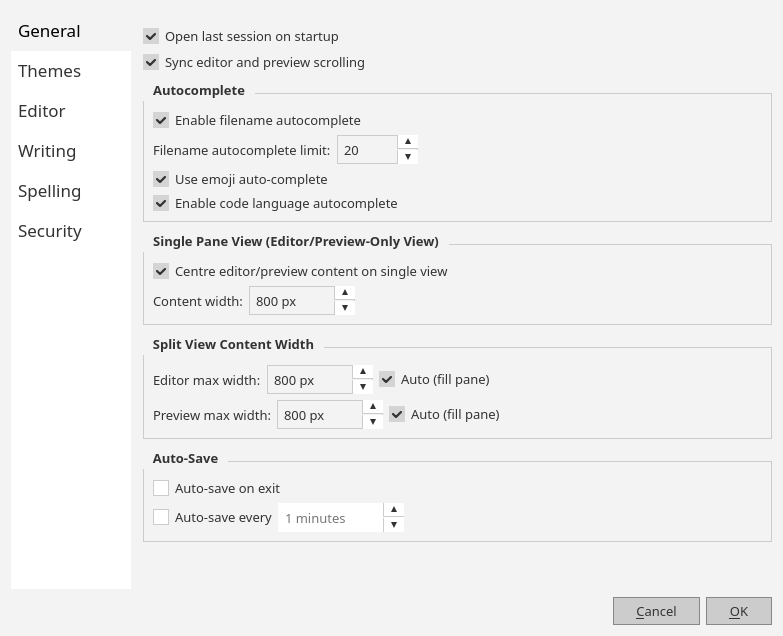
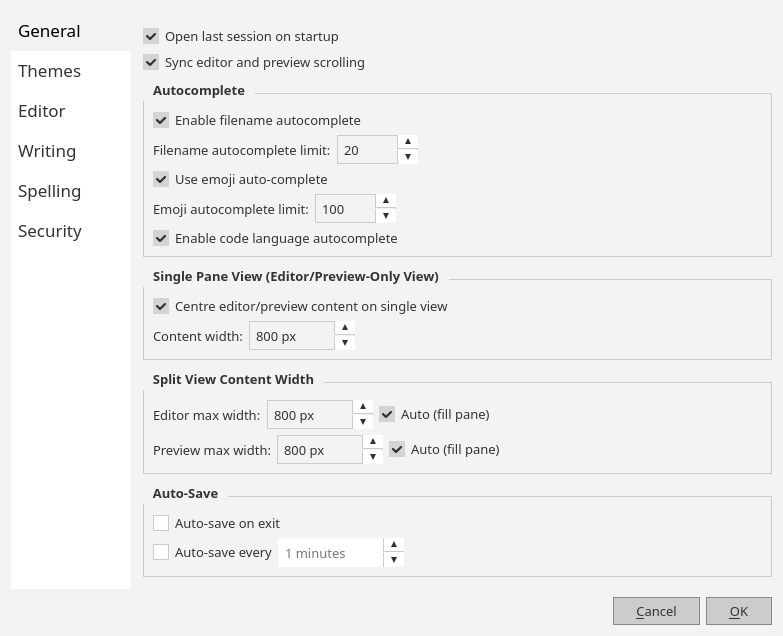
fix: emoji suggestions caused some non-existent emojis to be pulled from qrc, feat: emoji suggestions cap in preferences, autocomplete suggestion placement for filename and language completion, updated gallery images

diff --git a/tests/test_editor_completion_ui.cpp b/tests/test_editor_completion_ui.cpp
@@ -4,6 +4,8 @@
 #include <QAbstractItemView>
 #include <QDir>
 #include <QFile>
+#include <QMessageLogContext>
+#include <QRegularExpression>
 #include <QSettings>
 #include <QTemporaryDir>
 #include <QTest>
@@ -180,17 +182,22 @@ TEST_F(EditorCompletionHarness, BackspaceOnClosingColonHidesPopup)
 
 TEST_F(EditorCompletionHarness, EmojiPopupSitsBelowCursorLine)
 {
-    typeText(":s");
+    // ":" alone does not open the popup (no partial code yet), so capture the
+    // cursor's global position before the popup exists. Under xvfb the window
+    // can be moved asynchronously while the popup is shown, so comparing
+    // against a post-popup cursor position would be flaky.
+    typeText(":");
+    QRect cursor = editor->cursorRect();
+    QPoint cursorBottomGlobal = editor->viewport()->mapToGlobal(
+        QPoint(cursor.x(), cursor.y() + cursor.height()));
+
+    typeText("s");
     QApplication::processEvents();
 
     ASSERT_NE(editor->completer(), nullptr);
     QAbstractItemView *popup = editor->completer()->popup();
     ASSERT_NE(popup, nullptr);
     ASSERT_TRUE(popup->isVisible());
-
-    QRect cursor = editor->cursorRect();
-    QPoint cursorBottomGlobal = editor->viewport()->mapToGlobal(
-        QPoint(cursor.x(), cursor.y() + cursor.height()));
 
     EXPECT_GE(popup->geometry().y(), cursorBottomGlobal.y())
         << "popup top should be at or below the bottom of the cursor line";
@@ -317,6 +324,71 @@ TEST_F(EditorCompletionHarness, HtmlHrefAttributeCompletes)
     press(Qt::Key_Tab);
     enter();
     EXPECT_EQ(text(), "<a href='resources/icons/");
+}
+
+TEST_F(EditorCompletionHarness, EmojiCompletionLimitsResults)
+{
+    QSettings().setValue(Preferences::EmojiCompletionLimit, 10);
+    typeText(":s");
+    QApplication::processEvents();
+
+    ASSERT_NE(editor->completer(), nullptr);
+    ASSERT_TRUE(editor->completer()->popup()->isVisible());
+    EXPECT_EQ(popupRowCount(), 10);
+}
+
+TEST_F(EditorCompletionHarness, EmojiSuggestionsContainNoGarbageEntries)
+{
+    QSettings().setValue(Preferences::EmojiCompletionLimit, 10);
+    typeText(":s");
+    QApplication::processEvents();
+
+    ASSERT_NE(editor->completer(), nullptr);
+    auto *model = editor->completer()->completionModel();
+    static const QRegularExpression shortcodeRe("^:[a-z0-9_+\\-]+:$");
+    for (int i = 0; i < model->rowCount(); ++i) {
+        QString label = model->index(i, 0).data().toString();
+        EXPECT_TRUE(shortcodeRe.match(label).hasMatch()) << "unexpected suggestion: " << label.toStdString();
+    }
+}
+
+namespace {
+int g_svgWarningCount = 0;
+
+void svgWarningCounter(QtMsgType type, const QMessageLogContext &, const QString &msg)
+{
+    if (type == QtWarningMsg && msg.startsWith("qt.svg: Cannot open file"))
+        ++g_svgWarningCount;
+}
+}
+
+TEST_F(EditorCompletionHarness, EmojiAutocompleteRendersNoMissingSvgWarnings)
+{
+    QSettings().setValue(Preferences::EmojiMode,
+        Preferences::emojiRenderingToString(Preferences::EmojiRendering::Color));
+
+    auto *oldHandler = qInstallMessageHandler(svgWarningCounter);
+    g_svgWarningCount = 0;
+
+    // User repro: typing an emoji shortcode renders icons for every matched
+    // suggestion; every keystroke re-renders the popup. ":fem" and ":pers"
+    // additionally hit shortcodes whose twemoji SVG is a ZWJ sequence
+    // (kept-fe0f name) or genuinely absent from the bundled twemoji set.
+    typeText(":smil");
+    QApplication::processEvents();
+    press(Qt::Key_Escape);
+    typeText(" :rocke");
+    QApplication::processEvents();
+    press(Qt::Key_Escape);
+    typeText(" :fem");
+    QApplication::processEvents();
+    press(Qt::Key_Escape);
+    typeText(" :pers");
+    QApplication::processEvents();
+    press(Qt::Key_Escape);
+
+    qInstallMessageHandler(oldHandler);
+    EXPECT_EQ(g_svgWarningCount, 0) << "autocomplete rendered a twemoji SVG that does not exist";
 }
 
 int main(int argc, char **argv)

diff --git a/src/Editor.cpp b/src/Editor.cpp
@@ -639,12 +639,9 @@ void Editor::showFileCompletion(const QString &partialPath)
         maxWidth = qMax(maxWidth, fm.horizontalAdvance(entry));
     cr.setWidth(maxWidth + 30);
 
-    QTextBlock block = textCursor().block();
-    int lineH = fontMetrics().height() * block.blockFormat().lineHeight() / 100;
-
     m_completer->complete(cr);
     m_completer->popup()->setCurrentIndex(model->index(0, 0));
-    QPoint popupPos = viewport()->mapToGlobal(QPoint(cr.x(), cr.y() + lineH + 18));
+    QPoint popupPos = viewport()->mapToGlobal(QPoint(cr.x(), cr.y() + cr.height() + 18));
     m_completer->popup()->move(popupPos);
 }
 
@@ -712,7 +709,7 @@ void Editor::loadEmojiShortcodes()
         return;
 
     QString content = QString::fromUtf8(file.readAll());
-    static const QRegularExpression re(R"('([^']+)'\s*:\s*'([^']+)')");
+    static const QRegularExpression re(R"('([a-z0-9_+\-]+)'\s*:\s*'([^']+)')");
     auto it = re.globalMatch(content);
     while (it.hasNext()) {
         auto match = it.next();
@@ -750,6 +747,10 @@ void Editor::showEmojiCompletion(const QString &partialCode)
             return a < b;
         });
 
+    int limit = QSettings().value(Preferences::EmojiCompletionLimit, 100).toInt();
+    if (matchedCodes.size() > limit)
+        matchedCodes = matchedCodes.mid(0, limit);
+
     QStringList matches;
     for (const QString &sc : matchedCodes)
         matches.append(QString(":%1:").arg(sc));
@@ -781,12 +782,9 @@ void Editor::showEmojiCompletion(const QString &partialCode)
         maxWidth = qMax(maxWidth, fm.horizontalAdvance(model->item(i)->text()));
     cr.setWidth(maxWidth + 30 + 22);
 
-    QTextBlock block = textCursor().block();
-    int lineH = fontMetrics().height() * block.blockFormat().lineHeight() / 100;
-
     m_completer->complete(cr);
     m_completer->popup()->setCurrentIndex(model->index(0, 0));
-    QPoint popupPos = viewport()->mapToGlobal(QPoint(cr.x(), cr.y() + lineH + 18));
+    QPoint popupPos = viewport()->mapToGlobal(QPoint(cr.x(), cr.y() + cr.height() + 18));
     m_completer->popup()->move(popupPos);
 }
 
@@ -816,10 +814,26 @@ QPixmap Editor::renderEmojiIcon(const QString &emojiStr) const
             }
             parts.append(QString::number(code, 16));
         }
-        parts.removeAll("fe0f");
-        QSvgRenderer renderer(QString(":/twemoji/svg/%1.svg").arg(parts.join("-")));
-        if (renderer.isValid())
+        QStringList stripped = parts;
+        stripped.removeAll("fe0f");
+        QString svgPath;
+        for (const QString &candidate : {stripped.join("-"), parts.join("-")}) {
+            QString path = QString(":/twemoji/svg/%1.svg").arg(candidate);
+            if (QFile::exists(path)) {
+                svgPath = path;
+                break;
+            }
+        }
+        if (!svgPath.isEmpty()) {
+            QSvgRenderer renderer(svgPath);
             renderer.render(&painter, QRectF(0, 0, 18, 18));
+        } else {
+            QFont font("Symbola");
+            font.setPixelSize(16);
+            painter.setFont(font);
+            painter.setPen(Qt::black);
+            painter.drawText(QRect(0, 0, 18, 18), Qt::AlignCenter, emojiStr);
+        }
     } else {
         QFont font("Symbola");
         font.setPixelSize(16);
@@ -988,12 +1002,9 @@ void Editor::showLanguageCompletion(const QString &partialLang)
         maxWidth = qMax(maxWidth, fm.horizontalAdvance(entry));
     cr.setWidth(maxWidth + 30);
 
-    QTextBlock block = textCursor().block();
-    int lineH = fontMetrics().height() * block.blockFormat().lineHeight() / 100;
-
     m_completer->complete(cr);
     m_completer->popup()->setCurrentIndex(model->index(0, 0));
-    QPoint popupPos = viewport()->mapToGlobal(QPoint(cr.x(), cr.y() + lineH + 18));
+    QPoint popupPos = viewport()->mapToGlobal(QPoint(cr.x(), cr.y() + cr.height() + 18));
     m_completer->popup()->move(popupPos);
 }
 

diff --git a/src/PreferencesDialog.cpp b/src/PreferencesDialog.cpp
@@ -121,6 +121,15 @@ void PreferencesDialog::setupUi(const QString &themeBgColor, const QString &them
         m_emojiAutoCompleteCheck->setChecked(settings.value(Preferences::EmojiAutoComplete, true).toBool());
         autoCompleteLayout->addWidget(m_emojiAutoCompleteCheck);
 
+        QHBoxLayout *emojiCompRow = new QHBoxLayout();
+        emojiCompRow->addWidget(new QLabel("Emoji autocomplete limit:"));
+        m_emojiCompletionSpin = new QSpinBox();
+        m_emojiCompletionSpin->setRange(5, 500);
+        m_emojiCompletionSpin->setValue(settings.value(Preferences::EmojiCompletionLimit, 100).toInt());
+        emojiCompRow->addWidget(m_emojiCompletionSpin);
+        emojiCompRow->addStretch();
+        autoCompleteLayout->addLayout(emojiCompRow);
+
         m_languageAutoCompleteCheck = new QCheckBox("Enable code language autocomplete");
         m_languageAutoCompleteCheck->setChecked(settings.value(Preferences::LanguageAutoComplete, true).toBool());
         autoCompleteLayout->addWidget(m_languageAutoCompleteCheck);
@@ -882,6 +891,7 @@ void PreferencesDialog::setupUi(const QString &themeBgColor, const QString &them
         settings.setValue(Preferences::EmojiMode,
     Preferences::emojiRenderingToString(m_emojiBw->isChecked() ? Preferences::EmojiRendering::Bw : Preferences::EmojiRendering::Color));
         settings.setValue(Preferences::EmojiAutoComplete, m_emojiAutoCompleteCheck->isChecked());
+        settings.setValue(Preferences::EmojiCompletionLimit, m_emojiCompletionSpin->value());
         settings.setValue(Preferences::LanguageAutoComplete, m_languageAutoCompleteCheck->isChecked());
         settings.setValue(Preferences::CentreSingleViewContent, m_centreSingleViewCheck->isChecked());
         settings.setValue(Preferences::CentreSingleViewWidth, m_centreSingleViewWidthSpin->value());

diff --git a/src/Preferences.h b/src/Preferences.h
@@ -19,6 +19,7 @@ namespace Preferences {
     constexpr const char *TableStriping = "tableStriping";
     constexpr const char *EmojiMode = "emojiMode";
     constexpr const char *EmojiAutoComplete = "emojiAutoComplete";
+    constexpr const char *EmojiCompletionLimit = "emojiCompletionLimit";
     constexpr const char *CentreSingleViewContent = "centreSingleViewContent";
     constexpr const char *CentreSingleViewWidth = "centreSingleViewWidth";
     constexpr const char *SplitViewEditorMaxWidth = "splitViewEditorMaxWidth";

diff --git a/src/EmojiDialog.cpp b/src/EmojiDialog.cpp
@@ -96,7 +96,7 @@ void EmojiDialog::loadEmojiData()
 
     QString content = QString::fromUtf8(file.readAll());
 
-    QRegularExpression re(R"('([^']+)'\s*:\s*'([^']+)')");
+    QRegularExpression re(R"('([a-z0-9_+\-]+)'\s*:\s*'([^']+)')");
     auto it = re.globalMatch(content);
 
     while (it.hasNext()) {

diff --git a/src/PreferencesDialog.h b/src/PreferencesDialog.h
@@ -87,6 +87,7 @@ private:
     QRadioButton *m_emojiBw;
     QRadioButton *m_emojiColor;
     QCheckBox *m_emojiAutoCompleteCheck;
+    QSpinBox *m_emojiCompletionSpin;
     QCheckBox *m_languageAutoCompleteCheck;
     QCheckBox *m_centreSingleViewCheck;
     QSpinBox *m_centreSingleViewWidthSpin;
